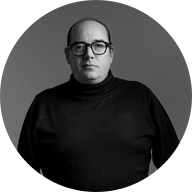
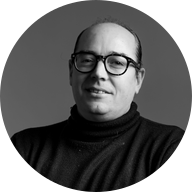
chore(florian): remplace photo 89 par 90 (meilleur cadrage)

diff --git a/build.js b/build.js
@@ -44,7 +44,7 @@ const BRANDS = {
 
 // ----- MAPPING photo source -----
 const PHOTO_MAP = {
-  yann: '110', jacques: '64', clement: '70', florian: '89',
+  yann: '110', jacques: '64', clement: '70', florian: '90',
   anne: '49', veronique: '41',
   sonia: '19', eulalie: '28', sidonie: '57',
   alexandre: '74'
